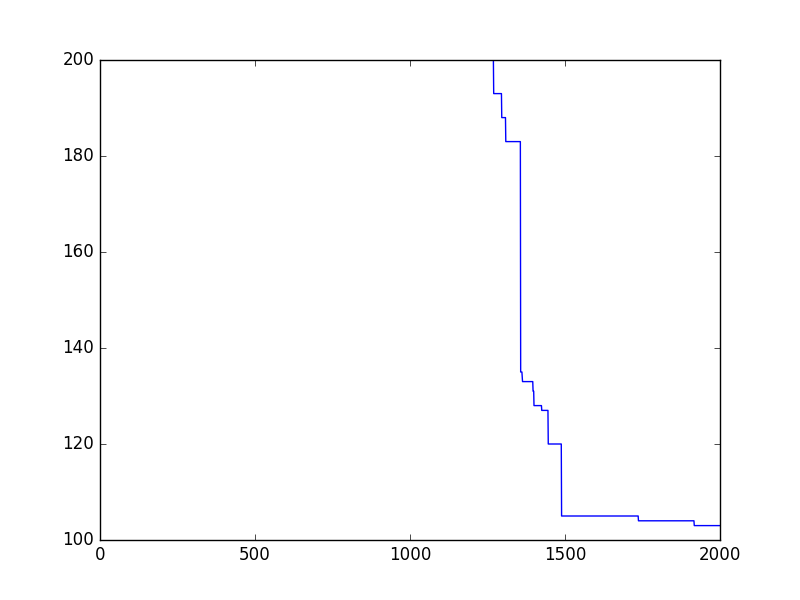
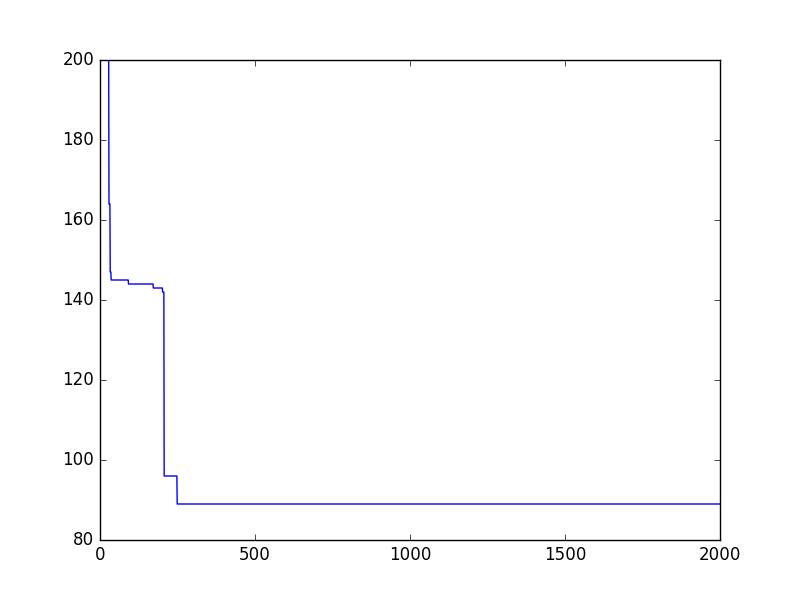
update all examples

diff --git a/example/sequential_random_embedding/continuous_sphere_sre.py b/example/sequential_random_embedding/continuous_sphere_sre.py
@@ -5,67 +5,29 @@ Author:
     Yu-Ren Liu
 """
 
-import numpy as np
 from fx import sphere_sre
-from zoopt import Dimension, Objective, Parameter, Opt, Solution
-from zoopt.utils.zoo_global import gl
-import matplotlib.pyplot as plt
-
-
-def result_analysis(results, top):
-    """
-    Get mean value and standard deviation of best 'top' results.
-
-    :param results: a list of results
-    :param top: the number of best results used to calculate mean value and standard deviation
-    :return: no return
-    """
-    limit = top if top < len(results) else len(results)
-    results.sort()
-    top_k = results[0:limit]
-    mean_r = np.mean(top_k, dtype=np.float64)
-    std_r = np.std(top_k, dtype=np.float64)
-    print('%f +- %f' % (float(mean_r), float(std_r)))
-    return
+from zoopt import Dimension, Objective, Parameter, ExpOpt
 
 
 def sphere_continuous_sre():
     """
     Example of minimizing high-dimensional sphere function with sequential random embedding.
 
-    :return: no result
+    :return: unused return
     """
-    # repeat of optimization experiments
-    repeat = 1
-    result = []
-    # the random seed for zoopt can be set
-    gl.set_seed(12345)
-    for i in range(repeat):
-        # setup optimization problem
-        dim_size = 10000  # dimensions
-        dim_regs = [[-1, 1]] * dim_size  # dimension range
-        dim_tys = [True] * dim_size  # dimension type : real
-        dim = Dimension(dim_size, dim_regs, dim_tys)  # form up the dimension object
-        objective = Objective(sphere_sre, dim, sre=True)  # form up the objective function
 
-        # setup algorithm parameters
-        budget = 2000  # number of calls to the objective function
-        parameter = Parameter(budget=budget, num_sre=5, low_dimension=Dimension(10, [[-1, 1]] * 10, [True] * 10),
-                              withdraw_alpha=Dimension(1, [[-1, 1]], [True]), intermediate_result=False, intermediate_freq=100)
-        # perform the optimization
-        solution = Opt.min(objective, parameter)
+    dim_size = 10000  # dimensions
+    dim_regs = [[-1, 1]] * dim_size  # dimension range
+    dim_tys = [True] * dim_size  # dimension type : real
+    dim = Dimension(dim_size, dim_regs, dim_tys)  # form up the dimension object
+    objective = Objective(sphere_sre, dim, sre=True)  # form up the objective function
 
-        # store the optimization result
-        print('solved solution is:')
-        solution.print_solution()
-        result.append(solution.get_value())
-
-        history = np.array(objective.get_history_bestsofar())  # init for reducing
-        plt.plot(history)
-    # plt.show()
-    plt.savefig("img/sphere_continuous_sre.png")  # uncomment this line and comment last line to save figures
-    result_analysis(result, 1)
-
+    # setup algorithm parameters
+    budget = 2000  # number of calls to the objective function
+    parameter = Parameter(budget=budget, num_sre=5, low_dimension=Dimension(10, [[-1, 1]] * 10, [True] * 10),
+                          withdraw_alpha=Dimension(1, [[-1, 1]], [True]), intermediate_result=False,
+                          intermediate_freq=100)
+    solution_list = ExpOpt.min(objective, parameter, repeat=1, plot=True, plot_file="img/sphere_continuous_sre.png")
 
 if __name__ == "__main__":
     sphere_continuous_sre()

diff --git a/example/direct_policy_search_for_gym/example.py b/example/direct_policy_search_for_gym/example.py
@@ -5,9 +5,7 @@ Author:
     Yu-Ren Liu
 """
 from gym_task import GymTask
-from zoopt import Dimension, Objective, Parameter, Opt, Solution
-import matplotlib.pyplot as plt
-import numpy as np
+from zoopt import Dimension, Objective, Parameter, ExpOpt
 
 
 def run_test(task_name, layers, in_budget, max_step, repeat, terminal_value=None):
@@ -42,27 +40,7 @@ def run_test(task_name, layers, in_budget, max_step, repeat, terminal_value=None
     parameter = Parameter(budget=budget, terminal_value=terminal_value)
     parameter.set_probability(rand_probability)
 
-    result = []
-    total_sum = 0
-    total_step = []
-    print('solved solution is:')
-    for i in range(repeat):
-        ins = Opt.min(objective, parameter)
-        result.append(ins.get_value())
-        total_sum += ins.get_value()
-        ins.print_solution()
-        print("total step %s" % gym_task.total_step)
-        total_step.append(gym_task.total_step)
-        gym_task.total_step = 0
-        history = np.array(objective.get_history_bestsofar())  # init for reducing
-        plt.plot(history)
-        objective.clean_history()  # clean history
-    # plt.show()
-    plt.savefig("img/direct_policy_search_for_gym.png")  # uncomment this line and comment last line to save figures
-    print(result)  # results in repeat times
-    print(total_sum/len(result))  # average result
-    print(total_step)
-    print("------------------------avg total step %s" % (sum(total_step)/len(total_step)))
+    solution_list = ExpOpt.min(objective, parameter, repeat=repeat)
 
 
 def run_ss_test(task_name, layers, in_budget, max_step, repeat, terminal_value):

diff --git a/example/linear_classifier_using_ramploss/example.py b/example/linear_classifier_using_ramploss/example.py
@@ -8,7 +8,7 @@ Author:
 """
 
 import arff, codecs
-from zoopt import Dimension, Objective, Parameter, Opt, Solution
+from zoopt import Dimension, Objective, Parameter, ExpOpt
 
 
 class RampLoss:
@@ -124,16 +124,7 @@ class RampLoss:
 if __name__=='__main__':
     # read data
     loss = RampLoss('ionosphere.arff')
-    # optimization
-    repeat = 1
-    result = []
-    for i in range(repeat):
-        objective = Objective(loss.eval, loss.dim())
-        budget = 100 * loss.get_dim_size()
-        parameter = Parameter(budget=budget)
-        # perform optimization
-        ins = Opt.min(objective, parameter)
-
-        print('solved solution is:')
-        ins.print_solution()
-        print('training error: %f' % loss.training_error(ins.get_x()))
+    objective = Objective(loss.eval, loss.dim())
+    budget = 100 * loss.get_dim_size()
+    parameter = Parameter(budget=budget)
+    solution_list = ExpOpt.min(objective, parameter, repeat=1, plot=True, plot_file="img/ramploss.png")

diff --git a/zoopt/exp_opt.py b/zoopt/exp_opt.py
@@ -12,13 +12,15 @@ class ExpOpt:
         return
 
     @staticmethod
-    def min(objective, parameter, repeat=1, best_n=1, plot=False, plot_file=None, seed=None):
+    def min(objective, parameter, repeat=1, best_n=None, plot=False, plot_file=None, seed=None):
         """
         Continuous optimization example of minimizing the ackley function.
 
         :return: best
         """
         ret = []
+        if best_n is None:
+            best_n = repeat
         if seed is not None:
             gl.set_seed(seed)  # set random seed
         result = []

diff --git a/example/simple_functions/quick_start.py b/example/simple_functions/quick_start.py
@@ -13,4 +13,4 @@ if __name__ == '__main__':
     dim = 100  # dimension
     objective = Objective(ackley, Dimension(dim, [[-1, 1]] * dim, [True] * dim))  # setup objective
     parameter = Parameter(budget=100 * dim)
-    ExpOpt.min(objective, parameter, repeat=1, plot=True, plot_file="img/quick_start.png")
+    solution_list = ExpOpt.min(objective, parameter, repeat=1, plot=True, plot_file="img/quick_start.png")

diff --git a/example/simple_functions/discrete_opt.py b/example/simple_functions/discrete_opt.py
@@ -9,7 +9,6 @@ from fx import SetCover
 from zoopt import Dimension, Objective, Parameter, ExpOpt
 
 
-
 def minimize_setcover_discrete():
     """
     Discrete optimization example of minimizing setcover problem.
